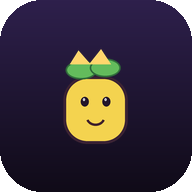
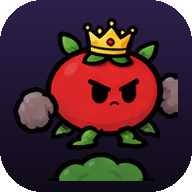
Use the illustrated sprite sheet for the game art and release 0.4.0.
Slice the supplied sheet into transparent sprites (background is baked into the
screenshot, so each sprite is cut from its distance to the local backdrop). The lemon
becomes the hero, seven produce peons become enemies, each region gets its own
illustrated guardian, hit and death effects use the sheet's splat/explosion art, the
HUD heart comes from the UI set, and the launcher icon is now the crowned tomato king.
The source sheet is kept in art/ for future cuts. Bumps to versionCode 6 / 0.4.0.

🤖 Generated with Codebuff

diff --git a/app/src/main/assets/adventure.js b/app/src/main/assets/adventure.js
@@ -1,6 +1,17 @@
 (()=>{'use strict';
 const c=document.querySelector('#game'),x=c.getContext('2d'),W=960,H=540;
 const $=s=>document.querySelector(s), menu=$('#menu'),levels=$('#levels'),pause=$('#pause'),help=$('#help'),toast=$('#toast');
+// cartoon art sliced from the design sheet (sprites/*.png)
+const spr={};
+const ENEMY_SPRITES=['enemy_apple','enemy_pea','enemy_eggplant','enemy_potato','enemy_onion','enemy_broccoli','enemy_carrot'];
+const BOSS_SPRITES=['boss_broccoli','boss_mushroom','boss_beet','boss_watermelon','boss_onion','boss_king_tomato'];
+['hero_lemon',...ENEMY_SPRITES,...BOSS_SPRITES,'fx_explosion','fx_splat','fx_spit','ui_heart'].forEach(n=>{const i=new Image();i.src='sprites/'+n+'.png';spr[n]=i});
+function drawSprite(name,cx,baseY,h,face=1,alpha=1){
+ const im=spr[name];if(!im||!im.complete||!im.naturalWidth)return false;
+ const w=h*im.naturalWidth/im.naturalHeight;
+ x.save();x.globalAlpha=alpha;x.translate(cx,baseY);x.scale(face<0?-1:1,1);
+ x.drawImage(im,-w/2,-h,w,h);x.restore();return true;
+}
 const regions=[
  {name:'THE OVERGROWN COURT',sky:'#17283a',ground:'#385b42',accent:'#9bdc76',boss:'THORNBACK',count:7},
  {name:'GLASSHOUSE GULCH',sky:'#253342',ground:'#48604c',accent:'#9ee4d4',boss:'THE MISTRESS',count:9},
@@ -9,7 +20,7 @@ const regions=[
  {name:'THE SUNKEN PANTRY',sky:'#172e3a',ground:'#31515c',accent:'#75d8df',boss:'MIRE KING',count:15},
  {name:'THE ROYAL ROTUNDA',sky:'#302039',ground:'#65434b',accent:'#ffd76b',boss:'KING TOMATO',count:17}
 ];
-let mode='campaign',region=0,running=false,paused=false,frame=0,camera=0,score=0,seedCount=0,levelWidth=2600,platforms=[],foes=[],shots=[],particles=[],keys={},player,boss=null,gateX=0,last=0;
+let mode='campaign',region=0,running=false,paused=false,frame=0,camera=0,score=0,seedCount=0,levelWidth=2600,platforms=[],foes=[],shots=[],particles=[],fx=[],keys={},player,boss=null,gateX=0,last=0;
 function rounded(a,b,w,h,r,col){x.fillStyle=col;x.beginPath();x.roundRect(a,b,w,h,r);x.fill()}
 function text(t,a,b,size=18,col='#fff',align='left'){x.fillStyle=col;x.font=`900 ${size}px system-ui`;x.textAlign=align;x.fillText(t,a,b)}
 function show(el){[menu,levels,pause,help].forEach(e=>e.classList.add('hidden'));el.classList.remove('hidden');document.body.classList.remove('playing')}
@@ -19,10 +30,10 @@ function newLevel(i,endless=false){
  player={x:90,y:350,vx:0,vy:0,w:34,h:48,hp:100,max:100,face:1,ground:false,fire:0,inv:0,crouch:false};
  platforms=[{x:0,y:472,w:levelWidth,h:100}];
  for(let a=0;a<12+(i*2);a++){let px=260+a*190+(a%3)*25, py=390-(a%4)*42;platforms.push({x:px,y:py,w:100+(a%3)*25,h:16})}
- foes=[];shots=[];particles=[];boss=null;gateX=levelWidth-150;
+ foes=[];shots=[];particles=[];fx=[];boss=null;gateX=levelWidth-150;
  let n=endless?22:regions[region].count;
- for(let a=0;a<n;a++){let ex=360+a*(levelWidth-600)/Math.max(1,n-1);foes.push({x:ex,y:420,hp:30+region*5,max:30+region*5,face:-1,cd:Math.random()*80,kind:a%4===0?'spitter':'crawler',alive:true})}
- if(!endless)boss={x:levelWidth-310,y:380,hp:180+region*30,max:180+region*30,cd:80,alive:true};
+ for(let a=0;a<n;a++){let ex=360+a*(levelWidth-600)/Math.max(1,n-1);foes.push({x:ex,y:420,hp:30+region*5,max:30+region*5,face:-1,cd:Math.random()*80,kind:a%4===0?'spitter':'crawler',alive:true,spr:ENEMY_SPRITES[(a+region)%ENEMY_SPRITES.length]})}
+ if(!endless)boss={x:levelWidth-310,y:380,hp:180+region*30,max:180+region*30,cd:80,alive:true,spr:BOSS_SPRITES[region%BOSS_SPRITES.length]};
  running=true;paused=false;showCanvasOnly();say(regions[region].name);
 }
 function showCanvasOnly(){[menu,levels,pause,help].forEach(e=>e.classList.add('hidden'));document.body.classList.add('playing')}
@@ -30,7 +41,7 @@ function startCampaign(){show(levels);let g=$('#levelGrid');g.innerHTML='';regio
 $('#campaign').onclick=startCampaign;$('#endless').onclick=()=>newLevel(0,true);$('#how').onclick=()=>show(help);
 $('#levelBack').onclick=()=>show(menu);$('#helpBack').onclick=()=>show(menu);$('#resume').onclick=()=>{paused=false;showCanvasOnly()};$('#quit').onclick=()=>{running=false;show(menu)};
 function pauseGame(){if(!running)return;paused=!paused;show(paused?pause:menu);if(!paused)showCanvasOnly()}
-function hitFoe(f,dmg){f.hp-=dmg;burst(f.x,f.y+10,'#b5e76d',8);if(f.hp<=0){f.alive=false;score+=100;seedCount++;for(let j=0;j<3;j++)particles.push({x:f.x,y:f.y,vx:Math.random()*4-2,vy:-Math.random()*4-1,t:50,col:'#ffd65a',r:4})}}
+function hitFoe(f,dmg){f.hp-=dmg;burst(f.x,f.y+10,'#b5e76d',8);if(f.hp<=0){f.alive=false;score+=100;seedCount++;fx.push({n:'fx_splat',x:f.x,y:f.y+26,t:14,h:64});for(let j=0;j<3;j++)particles.push({x:f.x,y:f.y,vx:Math.random()*4-2,vy:-Math.random()*4-1,t:50,col:'#ffd65a',r:4})}}
 function burst(a,b,col,n){for(let i=0;i<n;i++)particles.push({x:a,y:b,vx:(Math.random()-.5)*7,vy:(Math.random()-.8)*7,t:24+Math.random()*18,col,r:2+Math.random()*4})}
 function fire(){if(!running||paused||player.fire>0)return;player.fire=16;shots.push({x:player.x+player.face*23,y:player.y+20,vx:player.face*9,life:90});burst(player.x+player.face*20,player.y+20,'#e9e46b',4)}
 const held={left:false,right:false,down:false,jump:false,fire:false};
@@ -52,7 +63,8 @@ function update(){
  if(boss&&boss.alive){boss.cd--;if(Math.abs(player.x-boss.x)<100&&boss.cd<0){if(player.inv<=0){player.hp-=16;player.inv=55;burst(player.x,player.y,'#ff7668',12)}boss.cd=65}if(boss.cd===0||boss.cd===-1){for(let j=-1;j<=1;j++)shots.push({x:boss.x,y:boss.y+25,vx:(player.x<boss.x?-1:1)*4,vy:j*1.2,enemy:true,life:120})}boss.x+=Math.sin(frame/70)*.7}
  shots.forEach(s=>{s.x+=s.vx;s.y+=(s.vy||0);s.life--;if(!s.enemy){foes.forEach(f=>{if(f.alive&&Math.abs(s.x-f.x)<22&&Math.abs(s.y-(f.y+20))<35){hitFoe(f,18);s.life=0}});if(boss?.alive&&Math.abs(s.x-boss.x)<55&&Math.abs(s.y-(boss.y+25))<65){boss.hp-=10;s.life=0;burst(boss.x,boss.y,'#ffb65c',7)}}else if(Math.abs(s.x-player.x)<24&&Math.abs(s.y-(player.y+20))<35&&player.inv<=0){player.hp-=7;player.inv=32;s.life=0}});shots=shots.filter(s=>s.life>0&&s.x>-100&&s.x<levelWidth+100);
  particles.forEach(p=>{p.x+=p.vx;p.y+=p.vy;p.vy+=.15;p.t--});particles=particles.filter(p=>p.t>0);
- if(boss&&boss.hp<=0){boss.alive=false;score+=1000;seedCount+=10;burst(boss.x,boss.y,'#ffd56b',70);say('GUARDIAN DEFEATED — THE ROOTS REMEMBER!')}
+ fx.forEach(e=>e.t--);fx=fx.filter(e=>e.t>0);
+ if(boss&&boss.hp<=0){boss.alive=false;score+=1000;seedCount+=10;burst(boss.x,boss.y,'#ffd56b',70);fx.push({n:'fx_explosion',x:boss.x,y:boss.y+70,t:24,h:190});say('GUARDIAN DEFEATED — THE ROOTS REMEMBER!')}
  let done=player.x>gateX&&(!boss||!boss.alive);
  if(done){running=false;if(mode==='campaign'&&region<5){say('REGION CLEARED');setTimeout(()=>{if(!running) {newLevel(region+1);}},700)}else{show(menu);say('VICTORY! SEEDS: '+seedCount)}}
  if(player.hp<=0){running=false;show(menu);say('THE ROT CLAIMS ANOTHER — SCORE '+score)}
@@ -69,15 +81,16 @@ function draw(){
  for(let i=0;i<levelWidth/130;i++){let xx=i*130+30;x.strokeStyle='#779a62';x.globalAlpha=.5;x.lineWidth=5;x.beginPath();x.moveTo(xx,472);x.quadraticCurveTo(xx-18,420,xx+10,390-(i%3)*18);x.stroke();x.globalAlpha=1;x.fillStyle=r.accent;x.beginPath();x.arc(xx+10,390-(i%3)*18,5,0,Math.PI*2);x.fill()}
  // gate
  x.fillStyle='#2b1c36';x.fillRect(gateX,350,72,122);x.strokeStyle=r.accent;x.lineWidth=5;x.strokeRect(gateX+8,358,56,114);text('EXIT',gateX+36,340,13,r.accent,'center');
- foes.forEach(f=>{if(!f.alive)return;drawVeg(f.x,f.y+40, f.kind==='spitter'?'#9c83c9':'#b2a16a',.82,f.face);bar(f.x-19,f.y-8,38,5,f.hp/f.max,'#a8d96f')});
- if(boss?.alive){drawVeg(boss.x,boss.y+68,'#d93c43',1.65,-1,true);bar(boss.x-58,boss.y-42,116,9,boss.hp/boss.max,'#ff6c62');text(regions[region].boss,boss.x,boss.y-53,15,'#ffe28a','center')}
- shots.forEach(s=>{x.fillStyle=s.enemy?'#e77c77':'#f7e46c';x.shadowBlur=14;x.shadowColor=x.fillStyle;x.beginPath();x.arc(s.x,s.y,s.enemy?7:6,0,Math.PI*2);x.fill();x.shadowBlur=0});
+ foes.forEach(f=>{if(!f.alive)return;if(!drawSprite(f.spr,f.x,f.y+52,58,f.face))drawVeg(f.x,f.y+40,f.kind==='spitter'?'#9c83c9':'#b2a16a',.82,f.face);bar(f.x-19,f.y-8,38,5,f.hp/f.max,'#a8d96f')});
+ if(boss?.alive){if(!drawSprite(boss.spr,boss.x,boss.y+70,132,-1))drawVeg(boss.x,boss.y+68,'#d93c43',1.65,-1,true);bar(boss.x-58,boss.y-42,116,9,boss.hp/boss.max,'#ff6c62');text(regions[region].boss,boss.x,boss.y-53,15,'#ffe28a','center')}
+ fx.forEach(e=>drawSprite(e.n,e.x,e.y,e.h,1,Math.min(1,e.t/12)));
+ shots.forEach(s=>{if(s.enemy&&drawSprite('fx_spit',s.x,s.y+13,26))return;x.fillStyle=s.enemy?'#e77c77':'#f7e46c';x.shadowBlur=14;x.shadowColor=x.fillStyle;x.beginPath();x.arc(s.x,s.y,s.enemy?7:6,0,Math.PI*2);x.fill();x.shadowBlur=0});
  particles.forEach(p=>{x.globalAlpha=Math.min(1,p.t/20);x.fillStyle=p.col;x.beginPath();x.arc(p.x,p.y,p.r,0,Math.PI*2);x.fill();x.globalAlpha=1});
- if(player&&(player.inv%8<4||player.inv===0))drawVeg(player.x,player.y+player.h,player.crouch?'#f2d66a':'#f4d34f',1,player.face);
+ if(player&&(player.inv%8<4||player.inv===0)){const ph=player.crouch?60:80;if(!drawSprite('hero_lemon',player.x,player.y+player.h,ph,player.face))drawVeg(player.x,player.y+player.h,player.crouch?'#f2d66a':'#f4d34f',1,player.face);}
  x.restore();
  // HUD
  const hp=player?Math.max(0,player.hp):0,hpMax=player?player.max:100;
- rounded(18,16,240,64,12,'#0b1024cc');text('ROOTBOUND REBELLION',32,39,13,'#c9e7a2');rounded(32,50,205,12,6,'#342b42');rounded(32,50,205*Math.max(0,hp/hpMax),12,6,'#e86b66');text('♥ '+hp,245,61,12,'#fff','right');
+ rounded(18,16,240,64,12,'#0b1024cc');text('ROOTBOUND REBELLION',32,39,13,'#c9e7a2');rounded(32,50,205,12,6,'#342b42');rounded(32,50,205*Math.max(0,hp/hpMax),12,6,'#e86b66');drawSprite('ui_heart',236,70,22,1);text(''+hp,268,61,12,'#fff','right');
  rounded(770,16,172,54,12,'#0b1024cc');text('SEEDS  '+seedCount,856,49,17,'#ffdf72','center');text(mode==='endless'?'ENDLESS GROVE':`REGION ${region+1}/6`,480,28,13,'#fff','center');
 }
 function bar(a,b,w,h,v,col){rounded(a,b,w,h,4,'#241a2b');rounded(a,b,w*Math.max(0,v),h,4,col)}

diff --git a/app/src/main/assets/style.css b/app/src/main/assets/style.css
@@ -1,1 +1,1 @@
-*{box-sizing:border-box}html,body{margin:0;width:100%;height:100%;background:#090812;color:#fff;font-family:system-ui,Segoe UI,sans-serif;overflow:hidden}#shell{position:relative;width:100vw;height:100dvh;display:grid;place-items:center;background:radial-gradient(ellipse at 50% 20%,#29203c,#090812 72%)}canvas{display:block;width:min(100vw,177.78vh);height:min(56.25vw,100vh);max-width:100%;max-height:100%;background:#111020;image-rendering:pixelated;touch-action:none}.overlay{position:absolute;inset:0;display:flex;flex-direction:column;align-items:center;justify-content:center;text-align:center;padding:18px;overflow:auto;background:linear-gradient(180deg,rgba(10,8,20,.52),rgba(10,8,20,.9));backdrop-filter:blur(3px)}.hidden{display:none!important}.eyebrow{font-size:clamp(10px,2vw,16px);letter-spacing:.28em;color:#b9e58a;font-weight:900}.overlay h1{font-size:clamp(38px,8vw,84px);line-height:.86;letter-spacing:-.06em;margin:15px 0;color:#fff;text-shadow:0 5px 0 #30213f,0 12px 35px #000}.overlay h1 em{font-style:normal;color:#ffd65a}.subtitle{letter-spacing:.3em;color:#d2b9ff;font-weight:900;font-size:clamp(10px,1.7vw,15px)}.menuButtons{display:grid;gap:9px;width:min(310px,85vw);margin-top:22px}button{border:2px solid #f8d66b;background:linear-gradient(180deg,#8b4e40,#522b40);color:#fff;padding:12px 18px;border-radius:12px;font-weight:1000;letter-spacing:.08em;box-shadow:0 4px 0 #241629;cursor:pointer;font-size:15px}button:active{transform:translateY(3px);box-shadow:0 1px 0 #241629}button small{display:block;font-size:10px;opacity:.75;letter-spacing:.12em;margin-top:3px}.secondary{background:#29243b;border-color:#8274a2}.micro{font-size:11px;color:#b8adc8;margin-top:25px}.overlay h2{font-size:clamp(24px,4vw,42px);margin:0 0 8px;color:#ffdc76}.overlay p{max-width:600px;color:#e2d9ed;line-height:1.6}.levelGrid{display:grid;grid-template-columns:repeat(3,minmax(90px,150px));gap:10px;margin:16px}.levelGrid button{min-height:88px;background:linear-gradient(150deg,#315b4b,#29213f);border-color:#8fd58c}.levelGrid button small{color:#d8f4cb}.levelGrid button:disabled{opacity:.35}#touch{position:absolute;inset:auto 0 12px;display:none;justify-content:space-between;padding:0 16px;pointer-events:none}.pad,.actions{display:flex;gap:8px;align-items:end;pointer-events:auto}.pad{flex-wrap:wrap;width:150px}.pad button{width:60px;height:54px;padding:0;background:#2a263dcc;border-color:#a69bba;font-size:20px;touch-action:none}.pad button:last-child{margin-left:68px}.actions button{height:58px;min-width:74px;background:#7a3c3dcc;touch-action:none}#toast{position:absolute;top:14px;left:50%;transform:translateX(-50%);font-weight:900;letter-spacing:.1em;color:#ffe58a;text-shadow:0 2px 5px #000;pointer-events:none}@media(pointer:coarse){body.playing #touch{display:flex}}@media(max-height:540px){.overlay{padding:8px}.eyebrow{display:none}.overlay h1{font-size:clamp(26px,5.4vw,46px);margin:6px 0;line-height:.9}.subtitle{font-size:10px}.menuButtons{margin-top:10px;gap:6px}button{padding:8px 14px;font-size:14px}button small{display:none}.micro{display:none}.overlay h2{font-size:clamp(20px,3.4vw,30px)}.overlay p{font-size:13px;line-height:1.4;margin:6px 0}.levelGrid{margin:8px;gap:7px}.levelGrid button{min-height:64px}}
+*{box-sizing:border-box}html,body{margin:0;width:100%;height:100%;background:#090812;color:#fff;font-family:system-ui,Segoe UI,sans-serif;overflow:hidden}#shell{position:relative;width:100vw;height:100dvh;display:grid;place-items:center;background:radial-gradient(ellipse at 50% 20%,#29203c,#090812 72%)}canvas{display:block;width:min(100vw,177.78vh);height:min(56.25vw,100vh);max-width:100%;max-height:100%;background:#111020;image-rendering:pixelated;touch-action:none}.overlay{position:absolute;inset:0;display:flex;flex-direction:column;align-items:center;justify-content:center;text-align:center;padding:18px;overflow:auto;background:linear-gradient(180deg,rgba(10,8,20,.52),rgba(10,8,20,.9));backdrop-filter:blur(3px)}.hidden{display:none!important}.menuHero{width:clamp(46px,8vw,80px);height:auto;filter:drop-shadow(0 7px 12px rgba(0,0,0,.6));margin-bottom:-4px}.eyebrow{font-size:clamp(10px,2vw,16px);letter-spacing:.28em;color:#b9e58a;font-weight:900}.overlay h1{font-size:clamp(38px,8vw,84px);line-height:.86;letter-spacing:-.06em;margin:15px 0;color:#fff;text-shadow:0 5px 0 #30213f,0 12px 35px #000}.overlay h1 em{font-style:normal;color:#ffd65a}.subtitle{letter-spacing:.3em;color:#d2b9ff;font-weight:900;font-size:clamp(10px,1.7vw,15px)}.menuButtons{display:grid;gap:9px;width:min(310px,85vw);margin-top:22px}button{border:2px solid #f8d66b;background:linear-gradient(180deg,#8b4e40,#522b40);color:#fff;padding:12px 18px;border-radius:12px;font-weight:1000;letter-spacing:.08em;box-shadow:0 4px 0 #241629;cursor:pointer;font-size:15px}button:active{transform:translateY(3px);box-shadow:0 1px 0 #241629}button small{display:block;font-size:10px;opacity:.75;letter-spacing:.12em;margin-top:3px}.secondary{background:#29243b;border-color:#8274a2}.micro{font-size:11px;color:#b8adc8;margin-top:25px}.overlay h2{font-size:clamp(24px,4vw,42px);margin:0 0 8px;color:#ffdc76}.overlay p{max-width:600px;color:#e2d9ed;line-height:1.6}.levelGrid{display:grid;grid-template-columns:repeat(3,minmax(90px,150px));gap:10px;margin:16px}.levelGrid button{min-height:88px;background:linear-gradient(150deg,#315b4b,#29213f);border-color:#8fd58c}.levelGrid button small{color:#d8f4cb}.levelGrid button:disabled{opacity:.35}#touch{position:absolute;inset:auto 0 12px;display:none;justify-content:space-between;padding:0 16px;pointer-events:none}.pad,.actions{display:flex;gap:8px;align-items:end;pointer-events:auto}.pad{flex-wrap:wrap;width:150px}.pad button{width:60px;height:54px;padding:0;background:#2a263dcc;border-color:#a69bba;font-size:20px;touch-action:none}.pad button:last-child{margin-left:68px}.actions button{height:58px;min-width:74px;background:#7a3c3dcc;touch-action:none}#toast{position:absolute;top:14px;left:50%;transform:translateX(-50%);font-weight:900;letter-spacing:.1em;color:#ffe58a;text-shadow:0 2px 5px #000;pointer-events:none}@media(pointer:coarse){body.playing #touch{display:flex}}@media(max-height:540px){.menuHero{width:40px}.overlay{padding:8px}.eyebrow{display:none}.overlay h1{font-size:clamp(26px,5.4vw,46px);margin:6px 0;line-height:.9}.subtitle{font-size:10px}.menuButtons{margin-top:10px;gap:6px}button{padding:8px 14px;font-size:14px}button small{display:none}.micro{display:none}.overlay h2{font-size:clamp(20px,3.4vw,30px)}.overlay p{font-size:13px;line-height:1.4;margin:6px 0}.levelGrid{margin:8px;gap:7px}.levelGrid button{min-height:64px}}

diff --git a/app/src/main/assets/index.html b/app/src/main/assets/index.html
@@ -7,6 +7,7 @@
 <main id="shell">
 <canvas id="game" width="960" height="540" aria-label="Tookend Tyndout adventure game"></canvas>
 <section id="menu" class="overlay">
+ <img class="menuHero" src="sprites/hero_lemon.png" alt="">
  <div class="eyebrow">A PRODUCE KINGDOM ADVENTURE</div>
  <h1>TOOKEND<br><em>TYNDOUT</em></h1>
  <p class="subtitle">THE ROOTBOUND REBELLION</p>
